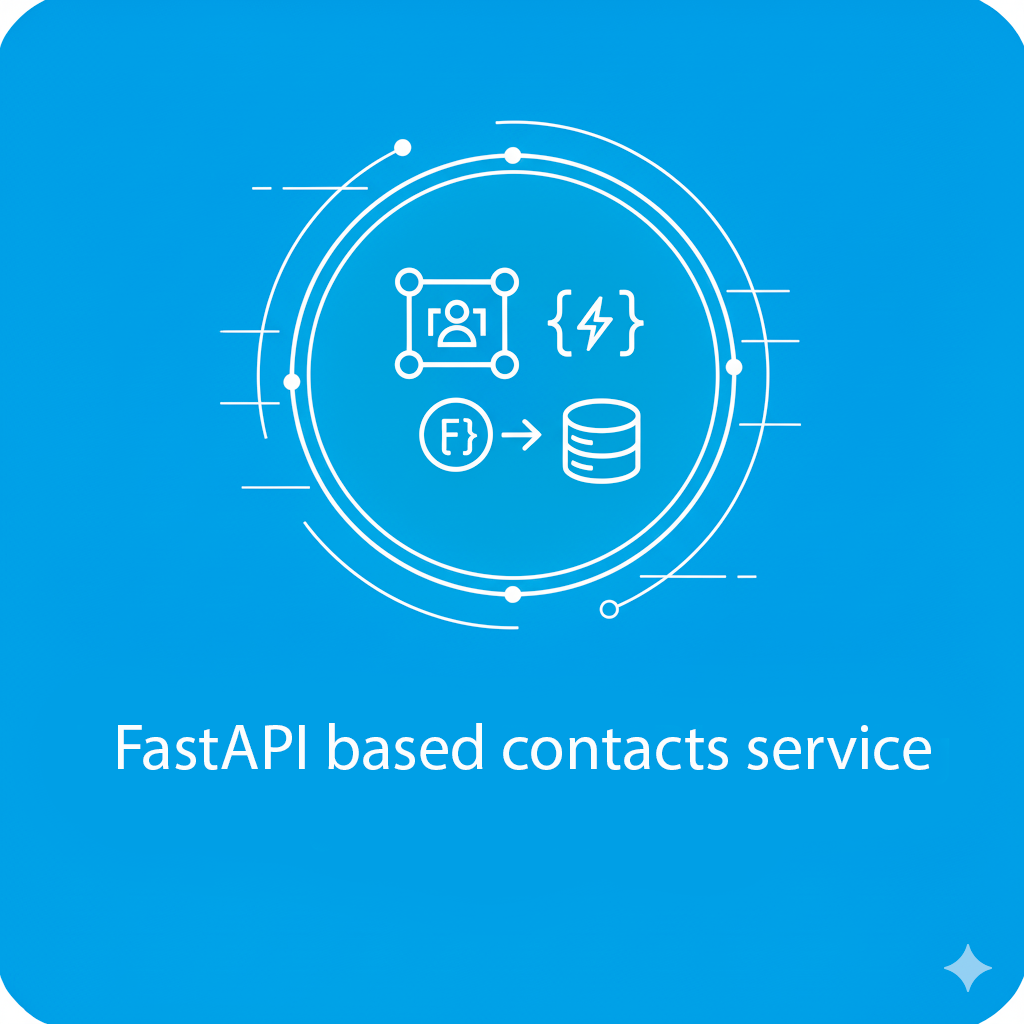
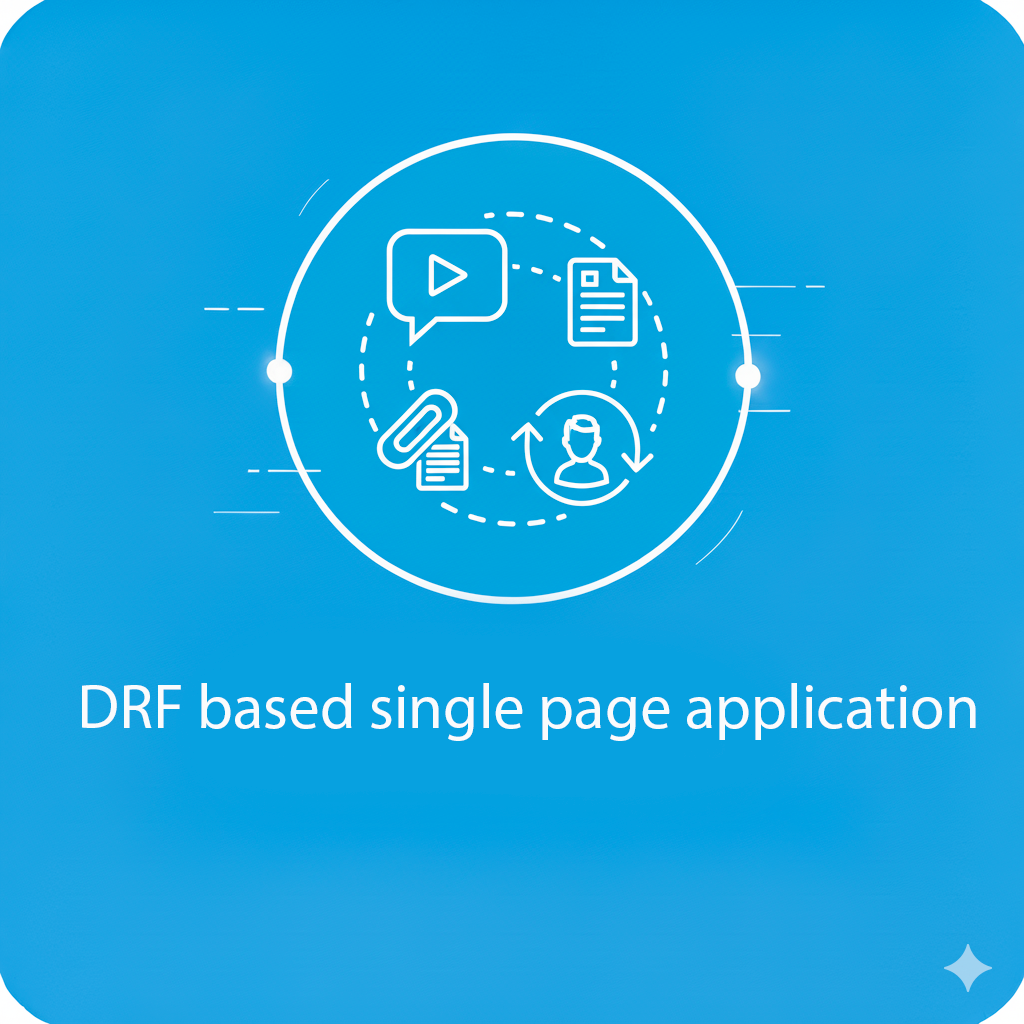
new_project

diff --git a/templates/main/index.html b/templates/main/index.html
@@ -137,8 +137,6 @@
                                     Led IT projects and implemented digital solutions (automation systems, databases,
                                     web services).
                                     Managed a team, introduced modern IT tools.
-                                    Gained hands-on experience in project management and applying technology in real use
-                                    cases.
                                 </p>
                             </div>
                         </div>
@@ -156,8 +154,6 @@
                                 <p>
                                     Designed and delivered IT-related courses. Applied data analysis and software tools
                                     in teaching and research.
-                                    Improved communication and teamwork skills through mentoring and project
-                                    supervision.
                                 </p>
                             </div>
                         </div>
@@ -282,11 +278,35 @@
                     </div>
                 </div>
 
-                <!-- Project 3 -->
+                 <!-- Project 3 -->
                 <div class="col-md-4 ftco-animate">
                     <div class="project-card project-3">
                         <div class="project-img"
                              style="background-image: url('{% static 'main/images/work-3.png' %}');"></div>
+                        <div class="overlay"></div>
+                        <div class="project-content">
+                            <h3>DRF based single page application</h3>
+                            <p>SPA-Comments — real-time comments powered by Vue.js with a robust Django REST backend</p>
+                            <div class="tech-stack">
+                                <span>DRF</span>
+                                 <span>Vue.js</span>
+                                <span>PostgreSQL</span>
+                                <span>Redis</span>
+                            </div>
+                            <div class="project-links">
+                                <a href="https://comments-spa.koyeb.app/" target="_blank"><i class="icon-eye"></i>
+                                    View Live</a>
+                                <a href="https://github.com/dspuliaiev/Comments_backend_deploy"><i class="icon-github"></i> GitHub</a>
+                            </div>
+                        </div>
+                    </div>
+                </div>
+
+                <!-- Project 4 -->
+                <div class="col-md-4 ftco-animate">
+                    <div class="project-card project-3">
+                        <div class="project-img"
+                             style="background-image: url('{% static 'main/images/work-4.png' %}');"></div>
                         <div class="overlay"></div>
                         <div class="project-content">
                             <h3>FastAPI REST Service</h3>
